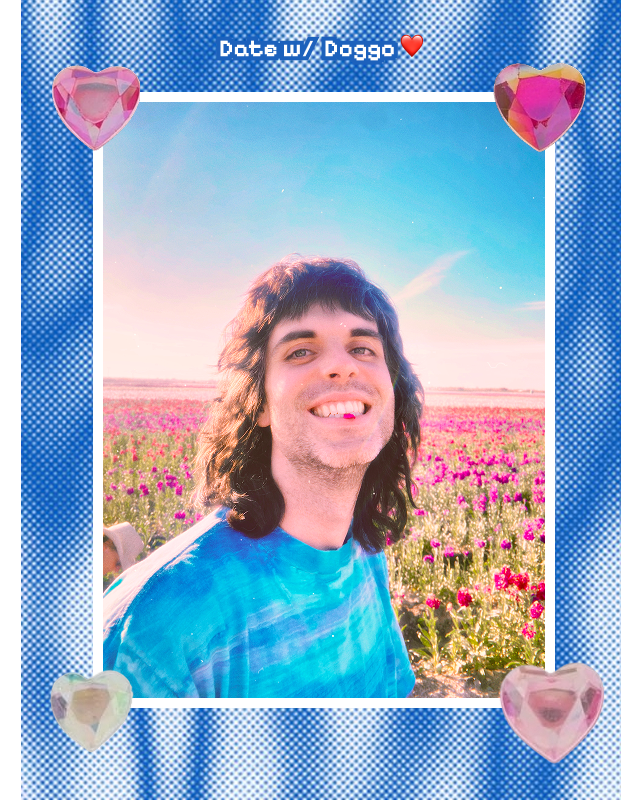
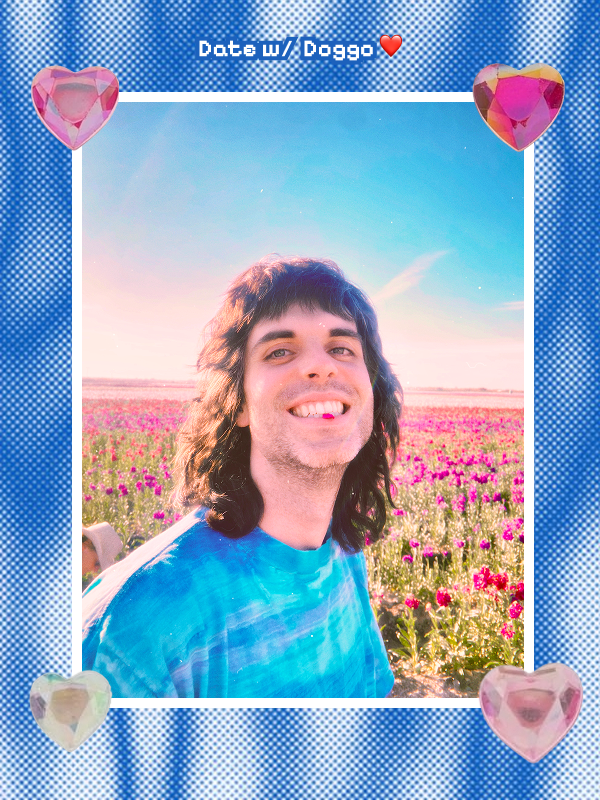
save while good

diff --git a/src/app/page.tsx b/src/app/page.tsx
@@ -40,7 +40,12 @@ export default function Home() {
         <div className="flex justify-end w-full">
           <div
             className="flipbook"
-            style={{ display: "block", minHeight: "600px", width: "800px" }}
+            style={{
+              display: "block",
+              minHeight: "800px",
+              width: "1200px",
+              position: "relative",
+            }}
           >
             <div className="hard flex flex-col">
               <p className="font-bold">Inazine</p>
@@ -58,40 +63,44 @@ export default function Home() {
               </h2>
               <small>✴Enter Inazine Universe✴</small>
             </div>
-            <div>
+            <div className="image-page">
               <Image
                 src="/images/p1.png"
                 alt="Inazine"
-                width={800}
-                height={600}
+                width={600}
+                height={800}
                 priority
+                style={{ border: "2px solid red" }}
               />
             </div>
             <div>
               <Image
                 src="/images/p2.png"
                 alt="Inazine"
-                width={800}
-                height={600}
+                width={600}
+                height={800}
                 priority
+                style={{ border: "2px solid red" }}
               />
             </div>
             <div>
               <Image
                 src="/images/p3.png"
                 alt="Inazine"
-                width={800}
-                height={600}
+                width={600}
+                height={800}
                 priority
+                style={{ border: "2px solid red" }}
               />
             </div>
             <div>
               <Image
                 src="/images/p4.png"
                 alt="Inazine"
-                width={800}
-                height={600}
+                width={600}
+                height={800}
                 priority
+                style={{ border: "2px solid red" }}
               />
             </div>
             <div className="hard">Thank you for reading!</div>

diff --git a/src/app/globals.css b/src/app/globals.css
@@ -30,8 +30,11 @@ body {
 }
 
 .flipbook {
-  width: 1000px;
-  height: 600px;
+  width: 1200px;
+  height: 800px;
+  margin: 0 auto;
+  padding: 0;
+  border: 2px solid red;
 }
 
 .flipbook .hard {
@@ -55,14 +58,22 @@ body {
   flex-direction: column;
   justify-content: center;
   align-items: center;
-  gap: 10px;
   border: 1px solid rgba(0, 0, 0, 0.11);
+  overflow: hidden;
+}
+
+.flipbook .page.image-page {
+  padding: 0;
+  display: block;
 }
 
 .page img {
   width: 100%;
-  object-fit: cover;
-  margin: auto;
+  height: 100%;
+  object-fit: contain;
+  margin: 0;
+  padding: 0;
+  display: block;
 }
 
 .flipbook .page small {
